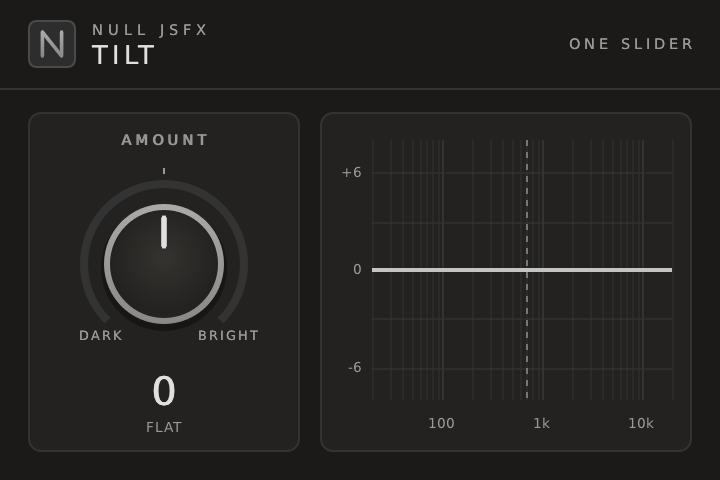
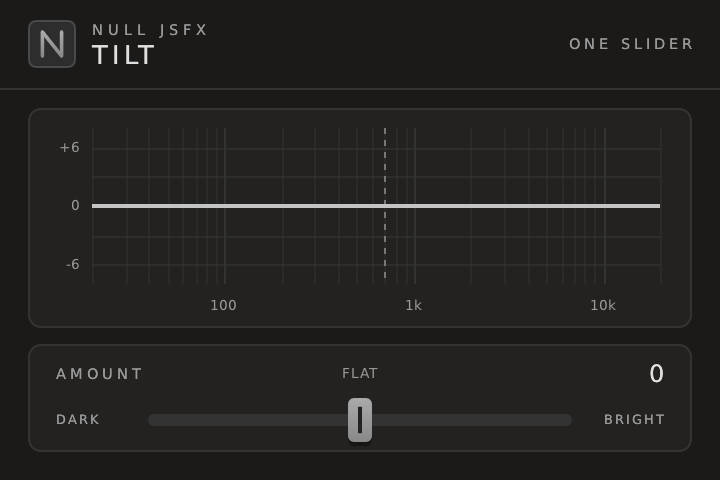
NULL Tilt prototypes: slider for the One Slider series, plain plugin name, resizable
- One Slider plugins use a horizontal slider (ng_slider in null_gfx.jsfx-inc and the
  native UI); the response curve spans the full width above it.
- The VST3/CLAP is named "Tilt" with NULL JSFX as the maker.
- The native window is user-resizable.

Claude-Session: https://claude.ai/code/session_01HJtmUhbX3KdjxZb5h8HZ1g

diff --git a/prototypes/tilt/dpf/plugin/UITilt.cpp b/prototypes/tilt/dpf/plugin/UITilt.cpp
@@ -22,10 +22,10 @@ constexpr float kMinAmount = -100.0f;
 constexpr float kMaxAmount = 100.0f;
 
 // Layout (1x coordinates), the same as the GFX JSFX
-constexpr float kKnobCardX = 14.0f, kKnobCardY = 56.0f, kKnobCardW = 136.0f, kKnobCardH = 170.0f;
-constexpr float kKnobCX = 82.0f, kKnobCY = 132.0f, kKnobR = 30.0f;
-constexpr float kGraphX = 160.0f, kGraphY = 56.0f, kGraphW = 186.0f, kGraphH = 170.0f;
-constexpr float kPlotX = 186.0f, kPlotY = 70.0f, kPlotW = 150.0f, kPlotH = 130.0f;
+constexpr float kGraphX = 14.0f, kGraphY = 54.0f, kGraphW = 332.0f, kGraphH = 110.0f;
+constexpr float kPlotX = 46.0f, kPlotY = 64.0f, kPlotW = 284.0f, kPlotH = 78.0f;
+constexpr float kSliderCardX = 14.0f, kSliderCardY = 172.0f, kSliderCardW = 332.0f, kSliderCardH = 54.0f;
+constexpr float kSliderX = 74.0f, kSliderY = 210.0f, kSliderW = 212.0f;
 
 constexpr float kFMin = 20.0f, kFMax = 20000.0f, kDbRange = 8.0f;
 
@@ -89,8 +89,8 @@ protected:
         fontFace(NANOVG_DEJAVU_SANS_TTF);
 
         drawHeader("TILT", "ONE SLIDER");
-        drawKnobCard();
         drawGraph();
+        drawSliderCard();
     }
 
     // text with letter spacing; bold is faked with a second pass shifted by a fraction of a pixel
@@ -155,87 +155,75 @@ protected:
         stroke();
     }
 
-    void drawKnobCard()
+    // horizontal slider (the One Slider series); norm 0..1, bipolar fills from the centre
+    void drawSlider(float x, float y, float w, float norm, bool bipolar)
     {
-        card(kKnobCardX, kKnobCardY, kKnobCardW, kKnobCardH);
-        label(kKnobCX, 70.0f, ALIGN_CENTER, 8.5f, 2.0f, theme::kMuted, "AMOUNT", true);
-
-        // angles: 0 = up, clockwise, +-135 deg; NanoVG measures from +x, so subtract 90 deg
-        const float amax = 0.75f * float(nulltilt::kPi);
-        const float aVal = (fAmount / kMaxAmount) * amax;
-        const float q = 0.5f * float(nulltilt::kPi);
-        const float tr = kKnobR + 10.0f;
+        const float th = 6.0f;
+        const float tx = x + norm * w;
+        const float f0 = bipolar ? x + w * 0.5f : x;
 
         beginPath();
-        arc(kKnobCX, kKnobCY, tr, -amax - q, amax - q, CW);
-        strokeColor(col(fDragging || fHover ? theme::kTrackHover : theme::kBorder));
-        strokeWidth(4.0f);
-        stroke();
+        roundedRect(x, y - th * 0.5f, w, th, th * 0.5f);
+        fillColor(col(fDragging || fHover ? theme::kTrackHover : theme::kBorder));
+        fill();
 
-        if (std::fabs(fAmount) > 0.05f)
+        if (std::fabs(tx - f0) > 0.25f)
         {
             beginPath();
-            arc(kKnobCX, kKnobCY, tr, std::fmin(0.0f, aVal) - q, std::fmax(0.0f, aVal) - q, CW);
-            strokeColor(col(theme::kAccent));
-            strokeWidth(4.0f);
+            rect(std::fmin(f0, tx), y - th * 0.5f, std::fabs(tx - f0), th);
+            fillColor(col(theme::kAccent));
+            fill();
+        }
+
+        if (bipolar)
+        {
+            beginPath();
+            moveTo(x + w * 0.5f, y - th * 0.5f - 4.0f);
+            lineTo(x + w * 0.5f, y - th * 0.5f - 7.0f);
+            strokeColor(col(theme::kMuted));
+            strokeWidth(1.0f);
             stroke();
         }
 
-        // centre tick
+        // thumb: shadow, grey-gradient body like the site icons, dark grip line
+        const float tw = 12.0f, tth = 22.0f;
         beginPath();
-        moveTo(kKnobCX, kKnobCY - tr - 5.0f);
-        lineTo(kKnobCX, kKnobCY - tr - 8.0f);
-        strokeColor(col(theme::kMuted));
-        strokeWidth(1.0f);
-        stroke();
-
-        // body: shadow, grey-gradient rim like the site icons, dark cap
-        beginPath();
-        circle(kKnobCX, kKnobCY + 2.0f, kKnobR + 1.5f);
+        roundedRect(tx - tw * 0.5f, y - tth * 0.5f + 2.0f, tw, tth, 3.0f);
         fillColor(Color(0, 0, 0, 0.35f));
         fill();
 
         beginPath();
-        circle(kKnobCX, kKnobCY, kKnobR);
-        fillPaint(linearGradient(kKnobCX, kKnobCY + kKnobR, kKnobCX, kKnobCY - kKnobR,
-                                 col(theme::kIconLo), col(theme::kIconHi)));
+        roundedRect(tx - tw * 0.5f, y - tth * 0.5f, tw, tth, 3.0f);
+        fillPaint(linearGradient(tx, y - tth * 0.5f, tx, y + tth * 0.5f, col(theme::kIconHi), col(theme::kIconLo)));
         fill();
 
         beginPath();
-        circle(kKnobCX, kKnobCY, kKnobR - 3.0f);
-        fillPaint(radialGradient(kKnobCX, kKnobCY - 3.0f, 2.0f, kKnobR - 3.0f,
-                                 col(theme::kCapTop), col(theme::kCard)));
+        rect(tx - 1.0f, y - tth * 0.3f, 2.0f, tth * 0.6f);
+        fillColor(col(theme::kCard));
         fill();
+    }
 
-        // pointer
-        const float sa = std::sin(aVal), ca = std::cos(aVal);
-        beginPath();
-        moveTo(kKnobCX + sa * kKnobR * 0.30f, kKnobCY - ca * kKnobR * 0.30f);
-        lineTo(kKnobCX + sa * (kKnobR - 7.0f), kKnobCY - ca * (kKnobR - 7.0f));
-        strokeColor(col(theme::kText));
-        strokeWidth(2.8f);
-        lineCap(ROUND);
-        stroke();
-        lineCap(BUTT);
+    void drawSliderCard()
+    {
+        card(kSliderCardX, kSliderCardY, kSliderCardW, kSliderCardH);
+        label(28.0f, 187.0f, ALIGN_LEFT, 8.5f, 2.0f, theme::kMuted, "AMOUNT", true);
 
-        label(kKnobCX - 32.0f, kKnobCY + 36.0f, ALIGN_CENTER, 7.5f, 1.0f, theme::kMuted, "DARK", true);
-        label(kKnobCX + 32.0f, kKnobCY + 36.0f, ALIGN_CENTER, 7.5f, 1.0f, theme::kMuted, "BRIGHT", true);
-
-        // value readout
         char buf[48];
         const int v = int(std::lround(fAmount));
-        if (v > 0)
-            std::snprintf(buf, sizeof(buf), "+%d", v);
-        else
-            std::snprintf(buf, sizeof(buf), "%d", v);
-        label(kKnobCX, 196.0f, ALIGN_CENTER, 23.0f, 0.0f, theme::kText, buf, true);
-
         const double hiDb = fAmount / 100.0 * nulltilt::kMaxDb;
         if (v == 0)
             std::snprintf(buf, sizeof(buf), "FLAT");
         else
             std::snprintf(buf, sizeof(buf), "LOW %+.1f  HIGH %+.1f dB", -hiDb, hiDb);
-        label(kKnobCX, 214.0f, ALIGN_CENTER, 8.0f, 0.3f, theme::kMuted, buf);
+        label(180.0f, 187.0f, ALIGN_CENTER, 8.0f, 0.3f, theme::kMuted, buf);
+
+        std::snprintf(buf, sizeof(buf), v > 0 ? "+%d" : "%d", v);
+        label(332.0f, 187.0f, ALIGN_RIGHT, 14.0f, 0.0f, theme::kText, buf, true);
+
+        label(28.0f, kSliderY, ALIGN_LEFT, 7.5f, 1.0f, theme::kMuted, "DARK", true);
+        label(332.0f, kSliderY, ALIGN_RIGHT, 7.5f, 1.0f, theme::kMuted, "BRIGHT", true);
+
+        drawSlider(kSliderX, kSliderY, kSliderW, (fAmount - kMinAmount) / (kMaxAmount - kMinAmount), true);
     }
 
     static float freqToX(float f)
@@ -284,12 +272,12 @@ protected:
             {
                 char buf[8];
                 std::snprintf(buf, sizeof(buf), db > 0 ? "+%d" : "%d", db);
-                label(kPlotX - 5.0f, dbToY(float(db)), ALIGN_RIGHT, 8.0f, 0.0f, theme::kMuted, buf);
+                label(kPlotX - 6.0f, dbToY(float(db)), ALIGN_RIGHT, 8.0f, 0.0f, theme::kMuted, buf);
             }
         }
-        label(freqToX(100.0f), 212.0f, ALIGN_CENTER, 8.0f, 0.0f, theme::kMuted, "100");
-        label(freqToX(1000.0f), 212.0f, ALIGN_CENTER, 8.0f, 0.0f, theme::kMuted, "1k");
-        label(freqToX(10000.0f), 212.0f, ALIGN_CENTER, 8.0f, 0.0f, theme::kMuted, "10k");
+        label(freqToX(100.0f), 153.0f, ALIGN_CENTER, 8.0f, 0.0f, theme::kMuted, "100");
+        label(freqToX(1000.0f), 153.0f, ALIGN_CENTER, 8.0f, 0.0f, theme::kMuted, "1k");
+        label(freqToX(10000.0f), 153.0f, ALIGN_CENTER, 8.0f, 0.0f, theme::kMuted, "10k");
 
         // 700 Hz pivot (dashed)
         {
@@ -345,10 +333,9 @@ protected:
     // ----------------------------------------------------------------------------------------------------------------
     // Interaction
 
-    bool inKnobArea(float x, float y) const
+    bool inSliderArea(float x, float y) const
     {
-        const float dx = x - kKnobCX, dy = y - kKnobCY;
-        return std::sqrt(dx * dx + dy * dy) < kKnobR + 16.0f;
+        return x > kSliderX - 10.0f && x < kSliderX + kSliderW + 10.0f && std::fabs(y - kSliderY) < 16.0f;
     }
 
     float uiScale() const { return float(getWidth()) / float(kWidth); }
@@ -380,7 +367,7 @@ protected:
 
         if (ev.press)
         {
-            if (!inKnobArea(x, y))
+            if (!inSliderArea(x, y))
                 return false;
 
             // double-click -> reset to 0
@@ -417,7 +404,7 @@ protected:
         const float s = uiScale();
         const float x = float(ev.pos.getX()) / s, y = float(ev.pos.getY()) / s;
 
-        const bool hover = inKnobArea(x, y);
+        const bool hover = inSliderArea(x, y);
         if (hover != fHover)
         {
             fHover = hover;
@@ -426,14 +413,14 @@ protected:
         if (!fDragging)
             return false;
 
-        const float dx = x - fDragLastX, dy = fDragLastY - y;
+        const float dx = x - fDragLastX;
         fDragLastX = x;
         fDragLastY = y;
 
         const bool fine = (ev.mod & (kModifierControl | kModifierShift)) != 0;
-        // 200 units over ~200 px normally, 10x finer with Ctrl/Shift
-        const float perPx = fine ? 0.1f : 1.0f;
-        fDragValue = clampf(fDragValue + (dx + dy) * perPx, kMinAmount, kMaxAmount);
+        // the full range over the slider width normally, 10x finer with Ctrl/Shift
+        const float perPx = (kMaxAmount - kMinAmount) / kSliderW * (fine ? 0.1f : 1.0f);
+        fDragValue = clampf(fDragValue + dx * perPx, kMinAmount, kMaxAmount);
 
         const float q = fine ? std::round(fDragValue * 10.0f) / 10.0f : std::round(fDragValue);
         setAmountFromUI(q);
@@ -444,7 +431,7 @@ protected:
     {
         const float s = uiScale();
         const float x = float(ev.pos.getX()) / s, y = float(ev.pos.getY()) / s;
-        if (!inKnobArea(x, y))
+        if (!inSliderArea(x, y))
             return false;
 
         const float d = float(ev.delta.getY()) + float(ev.delta.getX());

diff --git a/prototypes/tilt/dpf/plugin/DistrhoPluginInfo.h b/prototypes/tilt/dpf/plugin/DistrhoPluginInfo.h
@@ -8,9 +8,9 @@
 #define DISTRHO_PLUGIN_INFO_H_INCLUDED
 
 #define DISTRHO_PLUGIN_BRAND   "NULL JSFX"
-#define DISTRHO_PLUGIN_NAME    "NULL Tilt Native"
-#define DISTRHO_PLUGIN_URI     "https://nulljsfx.tech/plugins/tilt-native"
-#define DISTRHO_PLUGIN_CLAP_ID "tech.nulljsfx.tilt-native"
+#define DISTRHO_PLUGIN_NAME    "Tilt"
+#define DISTRHO_PLUGIN_URI     "https://nulljsfx.tech/plugins/tilt"
+#define DISTRHO_PLUGIN_CLAP_ID "tech.nulljsfx.tilt"
 
 // VST3 class id is derived by DPF from these two 4-char codes (+ plugin name).
 #define DISTRHO_PLUGIN_BRAND_ID  NulJ
@@ -27,7 +27,7 @@
 #define DISTRHO_PLUGIN_WANT_LATENCY  0
 #define DISTRHO_PLUGIN_WANT_STATE    0
 #define DISTRHO_UI_USE_NANOVG        1
-#define DISTRHO_UI_USER_RESIZABLE    0
+#define DISTRHO_UI_USER_RESIZABLE    1
 #define DISTRHO_UI_DEFAULT_WIDTH     360
 #define DISTRHO_UI_DEFAULT_HEIGHT    240
 

diff --git a/prototypes/tilt/dpf/plugin/PluginTilt.cpp b/prototypes/tilt/dpf/plugin/PluginTilt.cpp
@@ -26,7 +26,7 @@ public:
     }
 
 protected:
-    const char* getLabel() const override       { return "NullTiltNative"; }
+    const char* getLabel() const override       { return "Tilt"; }
     const char* getDescription() const override
     {
         return "Tilts the spectrum around 700 Hz: positive brightens, negative darkens, up to 6 dB each way.";

diff --git a/prototypes/tilt/README.md b/prototypes/tilt/README.md
@@ -6,7 +6,7 @@ silver accent.
 
 | Folder | Name | Format | Interface |
 |---|---|---|---|
-| `gfx/` | NULL Tilt GFX | JSFX (REAPER) | `@gfx` knob and response curve, drawn by the shared `null_gfx.jsfx-inc` |
+| `gfx/` | NULL Tilt GFX | JSFX (REAPER) | `@gfx` slider and response curve, drawn by the shared `null_gfx.jsfx-inc` |
 | `dpf/` | NULL Tilt Native | VST3, CLAP | C++ rewrite with [DPF](https://github.com/DISTRHO/DPF), NanoVG interface |
 
 The palette lives in two places that must match: `gfx/null_gfx.jsfx-inc` (`NG_*`) and
